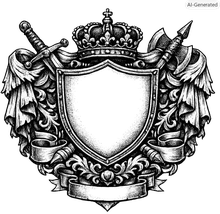
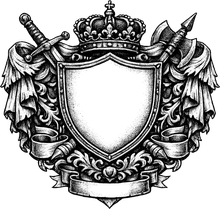
Corrige assets do reskin: remove selo 'AI-Generated' que vazou em todas as imagens, corrige recorte (trim por alpha estava falhando por ruído e não recortava nada), e troca texturas de fundo repetidas por versão única sem costura

diff --git a/index.html b/index.html
@@ -16,8 +16,8 @@
   *{box-sizing:border-box}
   body{margin:0;background:var(--bg);color:var(--ink);
     font-family:-apple-system,BlinkMacSystemFont,"Segoe UI",Roboto,Helvetica,Arial,sans-serif;line-height:1.5;font-size:15px;
-    background-image:linear-gradient(rgba(20,17,13,.94),rgba(20,17,13,.94)),url('img/ui/parchment.jpg');
-    background-size:auto,700px;background-repeat:no-repeat,repeat}
+    background-image:linear-gradient(rgba(20,17,13,.93),rgba(20,17,13,.93)),url('img/ui/parchment.jpg');
+    background-size:cover;background-repeat:no-repeat;background-position:center;background-attachment:fixed}
   h1,h2,h3{font-weight:600;margin:0;font-family:var(--font-display);letter-spacing:.3px}
   .wrap{max-width:1180px;margin:0 auto;padding:18px}
   header.top{display:flex;flex-wrap:wrap;align-items:center;gap:14px;border:1px solid var(--line);
@@ -27,10 +27,12 @@
       url('img/ui/corner_bl.png') left -2px bottom -2px no-repeat,
       url('img/ui/corner_br.png') right -2px bottom -2px no-repeat,
       linear-gradient(rgba(38,35,31,.96),rgba(38,35,31,.96)),url('img/ui/parchment.jpg');
-    background-size:64px,64px,64px,64px,auto,600px;
+    background-size:56px,56px,56px,56px,cover,cover;
+    background-repeat:no-repeat,no-repeat,no-repeat,no-repeat,no-repeat,no-repeat;
+    background-position:left top,right top,left bottom,right bottom,center,center;
     border-radius:var(--radius);padding:14px 22px;position:relative}
   header.top h1{font-size:22px;letter-spacing:.8px;display:inline}
-  .divider{display:block;margin:14px auto;max-width:420px;width:100%;opacity:.85}
+  .divider{display:block;margin:2px auto 16px;max-width:340px;width:100%;opacity:.8}
   .crest{width:48px;height:48px;flex-shrink:0;background:url('img/ui/crest.png') center/contain no-repeat}
   .spacer{flex:1}
   .season-badge{text-align:right;font-size:13px;color:var(--ink2)}
@@ -45,7 +47,8 @@
   .grid{display:grid;grid-template-columns:300px 1fr;gap:16px;margin-top:6px}
   @media(max-width:820px){.grid{grid-template-columns:1fr}}
   .panel{background:linear-gradient(rgba(38,35,31,.95),rgba(38,35,31,.95)),url('img/ui/parchment.jpg');
-    background-size:auto,500px;border:1px solid var(--line);border-radius:var(--radius);padding:16px;margin-bottom:16px}
+    background-size:cover;background-repeat:no-repeat;background-position:center;
+    border:1px solid var(--line);border-radius:var(--radius);padding:16px;margin-bottom:16px}
   .panel h2{font-size:13px;text-transform:uppercase;letter-spacing:1.2px;color:var(--muted-tx);margin-bottom:12px;font-family:var(--font-display)}
   .panel h2 .sub{text-transform:none;letter-spacing:0;font-size:12px;color:#6f675a;font-weight:400}
   .attr{margin-bottom:11px;cursor:default}
